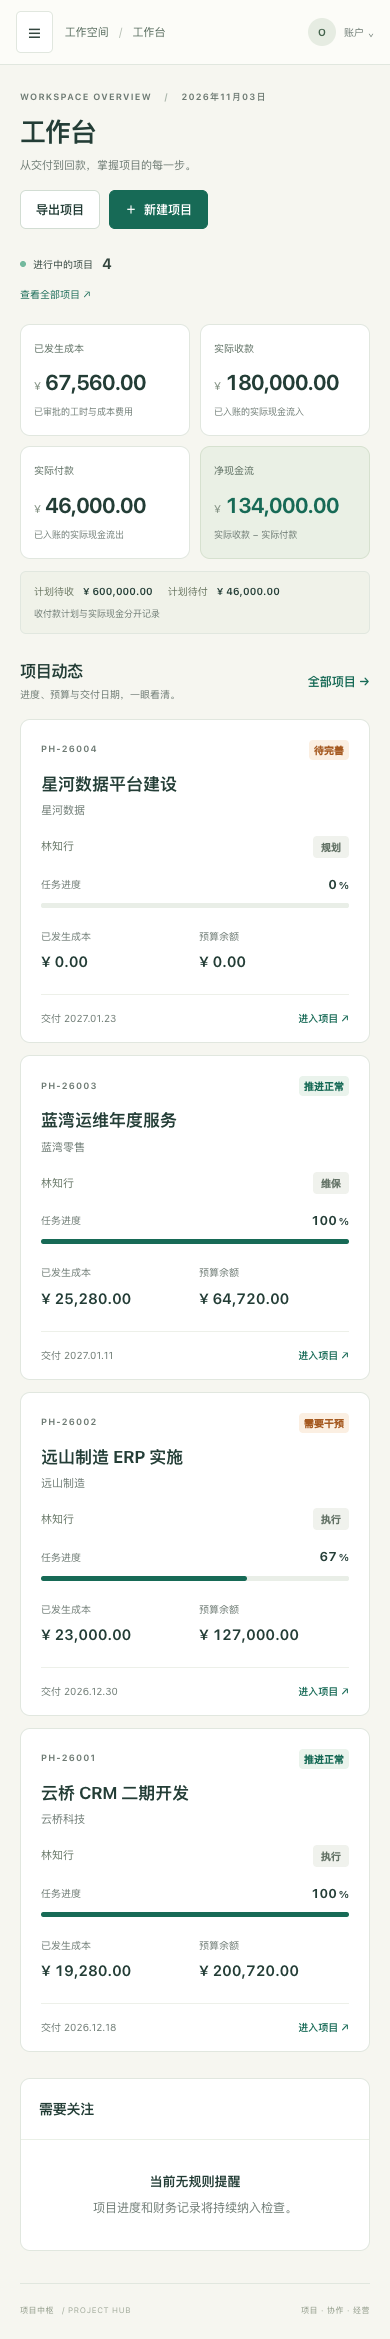
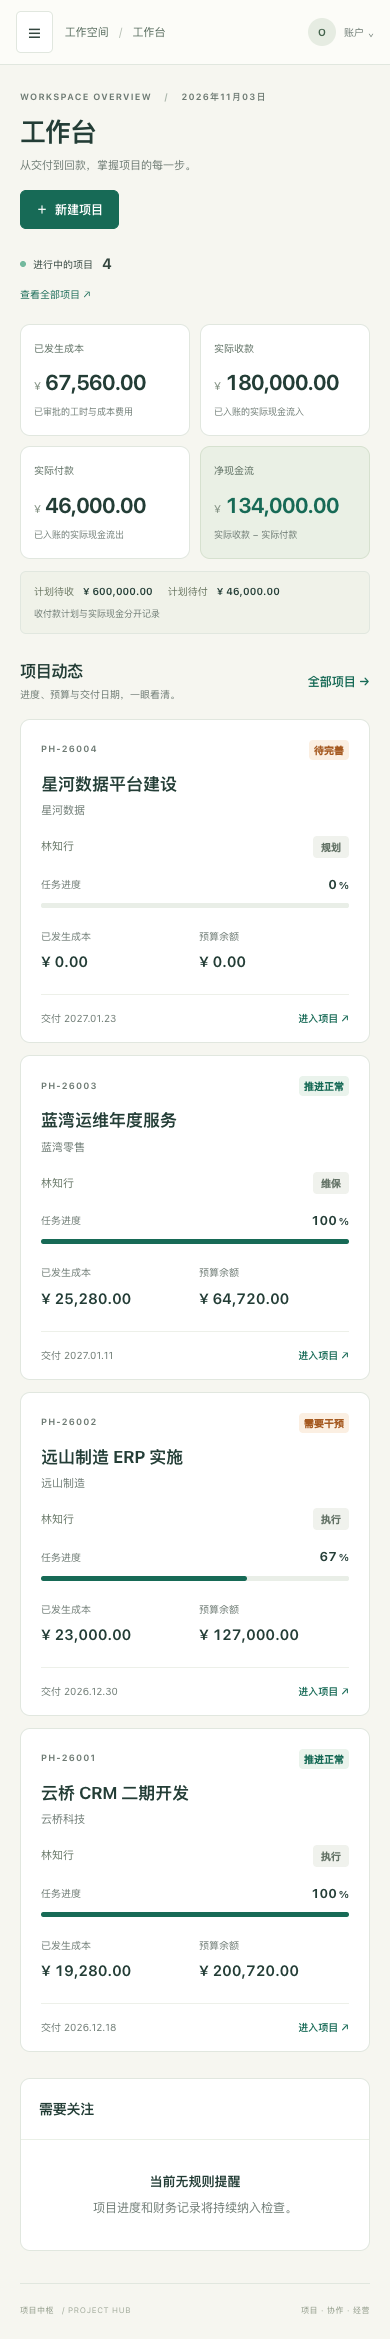
fix(Q-32): 补全停用写/导出/导入门控并附 Before/After 视觉证据

Changed region(s): [[0.3077, 0.0624, 0.5538, 0.1248], [0.0308, 0.0624, 0.2769, 0.1248]]

diff --git a/templates/settings.html b/templates/settings.html
@@ -1,4 +1,4 @@
 {% extends 'base.html' %}{% load money %}{% block title %}组织设置{% endblock %}{% block breadcrumb %}组织设置{% endblock %}{% block content %}<section class="page-heading"><div><div class="eyebrow">ORGANIZATION & PEOPLE</div><h1>组织设置</h1><p>维护组织、人员与成本核算规则。</p></div>{% if organization.is_demo %}<span class="badge warning">当前为演示组织</span>{% endif %}</section><div class="settings-overview"><section class="panel"><div class="panel-heading"><h2>组织信息</h2></div><div class="panel-body"><dl class="detail-grid"><div><dt>组织名称</dt><dd>{{ organization.name }}</dd></div><div><dt>记账币种</dt><dd>{{ organization.currency }} · 人民币</dd></div><div><dt>锁账截止日</dt><dd>{{ organization.locked_through|date:'Y.m.d'|default:'尚未设置' }}</dd></div><div><dt>当前角色</dt><dd>{{ membership.get_role_display }}</dd></div></dl>{% if is_owner and form %}<div class="section-gap"><h3>组织与锁账设置</h3><form method="post" class="stack-form">{% csrf_token %}{% include 'partials/form_fields.html' %}<button class="button primary" type="submit">保存设置</button></form></div>{% endif %}</div></section><section class="panel"><div class="panel-heading"><h2>工作空间规则</h2></div><div class="panel-body"><ol class="rule-list"><li><strong>成本与现金分账</strong><p>工时与费用计入成本，实际收付款计入现金。</p></li><li><strong>提交与审批分离</strong><p>记录由其他有权限的成员审批，处理过程留痕。</p></li><li><strong>锁账与冲销</strong><p>已入账记录通过冲销纠正；锁账日期约束历史变更。</p></li></ol><div class="notice">工作空间采用自托管部署。备份、存储与模型服务由部署配置管理。</div></div></section></div>
 <nav class="section-nav" aria-label="组织资料"><a href="#employees">员工</a>{% if is_manager %}<a href="#rates">成本费率</a><a href="#memberships">账户与权限</a>{% endif %}{% if is_owner %}<a href="{% url 'audit' %}">审计日志（只读）</a>{% endif %}</nav><section id="employees" class="panel anchor-section"><div class="panel-heading"><h2>员工档案</h2>{% if is_owner or is_finance %}<a class="button" href="{% url 'new-object' 'employee' %}">＋ 新增员工</a>{% endif %}</div><div class="table-scroll"><table><thead><tr><th>姓名</th><th>岗位</th><th>关联账户</th><th class="numeric">日可用工时</th><th>状态</th></tr></thead><tbody>{% for employee in employees %}<tr><th scope="row">{{ employee.name }}</th><td>{{ employee.title|default:'—' }}</td><td>{{ employee.member|default:'未关联' }}</td><td class="numeric">{{ employee.capacity_minutes|hours }} h</td><td><span class="badge {% if employee.active %}success{% else %}neutral{% endif %}">{% if employee.active %}在用{% else %}停用{% endif %}</span></td></tr>{% empty %}<tr><td colspan="5" class="table-empty">暂无员工档案。</td></tr>{% endfor %}</tbody></table></div></section>
 {% if is_manager %}<section id="rates" class="panel anchor-section"><div class="panel-heading"><div><h2>成本费率</h2><p>按员工与生效日期匹配工时成本</p></div>{% if is_finance %}<a class="button" href="{% url 'new-object' 'rate' %}">＋ 新增费率</a>{% endif %}</div><div class="table-scroll"><table><thead><tr><th>员工</th><th>生效日期</th><th class="numeric">小时综合成本</th><th>计算依据</th></tr></thead><tbody>{% for rate in rates %}<tr><th scope="row">{{ rate.employee.name }}</th><td>{{ rate.effective_from|date:'Y.m.d' }}</td><td class="numeric">¥ {{ rate.hourly_cents|money }} / h</td><td class="wrap-cell">{{ rate.basis }}</td></tr>{% empty %}<tr><td colspan="4" class="table-empty">暂无成本费率。</td></tr>{% endfor %}</tbody></table></div></section>
-<section id="memberships" class="panel anchor-section"><div class="panel-heading"><h2>账户与权限</h2>{% if is_owner %}<a class="button" href="{% url 'new-object' 'member' %}">＋ 新增账户</a>{% endif %}</div><div class="table-scroll"><table><thead><tr><th>姓名</th><th>用户名</th><th>角色</th><th>状态</th><th>项目范围</th><th>版本</th></tr></thead><tbody>{% for item in memberships %}<tr><th scope="row">{{ item.display }}</th><td>{{ item.username }}</td><td>{{ item.role_display }}</td><td><span class="badge {% if item.active %}success{% else %}neutral{% endif %}">{% if item.active %}在用{% else %}停用{% endif %}</span></td><td>{% if item.project_scope %}{% for scope in item.project_scope %}{{ scope.label }}{% if not forloop.last %}、{% endif %}{% endfor %}{% else %}—{% endif %}</td><td class="numeric">v{{ item.version }}</td></tr>{% empty %}<tr><td colspan="6" class="table-empty">暂无账户。</td></tr>{% endfor %}</tbody></table></div>{% if is_owner and membership_form %}<div class="section-gap"><h3>成员账号生命周期</h3><p class="help-text">变更角色、项目范围、停用/恢复成员。停用前请先停用/解绑其员工档案并改派其负责的项目；停用会立即撤销其个人 Agent 令牌并清空项目范围。每次变更写入审计并递增版本。</p>{% if membership_form.non_field_errors %}<div class="message error" role="alert">{{ membership_form.non_field_errors }}</div>{% endif %}<form method="post" class="stack-form">{% csrf_token %}{% include 'partials/form_fields.html' with form=membership_form %}<button class="button primary" type="submit">保存成员变更</button></form></div>{% endif %}</section>{% endif %}{% if is_owner %}<section id="audit" class="panel anchor-section"><div class="panel-heading"><div><h2>审计日志</h2><p>追加式只读操作记录；停用的专业能力历史仍可审计</p></div><a class="button" href="{% url 'audit' %}">打开审计日志</a></div><div class="panel-body"><p class="muted">审计记录只追加，不随入口停用而删除。复杂财务页与插件页已从小微版入口停用，历史账与审计仍可按权限只读查询。</p></div></section>{% endif %}{% endblock %}
+<section id="memberships" class="panel anchor-section"><div class="panel-heading"><h2>账户与权限</h2>{% if is_owner %}<a class="button" href="{% url 'new-object' 'member' %}">＋ 新增账户</a>{% endif %}</div><div class="table-scroll"><table><thead><tr><th>姓名</th><th>用户名</th><th>角色</th><th>状态</th><th>项目范围</th><th>版本</th></tr></thead><tbody>{% for item in memberships %}<tr><th scope="row">{{ item.display }}</th><td>{{ item.username }}</td><td>{{ item.role_display }}</td><td><span class="badge {% if item.active %}success{% else %}neutral{% endif %}">{% if item.active %}在用{% else %}停用{% endif %}</span></td><td>{% if item.project_scope %}{% for scope in item.project_scope %}{{ scope.label }}{% if not forloop.last %}、{% endif %}{% endfor %}{% else %}—{% endif %}</td><td class="numeric">v{{ item.version }}</td></tr>{% empty %}<tr><td colspan="6" class="table-empty">暂无账户。</td></tr>{% endfor %}</tbody></table></div>{% if is_owner and membership_form %}<div class="section-gap"><h3>成员账号生命周期</h3><p class="help-text">变更角色、项目范围、停用/恢复成员。停用前请先停用/解绑其员工档案并改派其负责的项目；停用会立即撤销其个人 Agent 令牌并清空项目范围。每次变更写入审计并递增版本。</p>{% if membership_form.non_field_errors %}<div class="message error" role="alert">{{ membership_form.non_field_errors }}</div>{% endif %}<form method="post" class="stack-form">{% csrf_token %}{% include 'partials/form_fields.html' with form=membership_form %}<button class="button primary" type="submit">保存成员变更</button></form></div>{% endif %}</section>{% endif %}{% if is_owner %}<section id="audit" class="panel anchor-section"><div class="panel-heading"><div><h2>审计日志</h2><p>追加式只读操作记录；{% if micro_scope %}停用的专业能力历史仍可审计{% else %}专业能力与业务操作均留痕{% endif %}</p></div><a class="button" href="{% url 'audit' %}">打开审计日志</a></div><div class="panel-body"><p class="muted">审计记录只追加，不随入口停用而删除。{% if micro_scope %}复杂财务页与插件页已从小微版入口停用，历史账与审计仍可按权限只读查询。{% else %}当前为专业能力全开范围，复杂财务与插件入口可用。{% endif %}</p></div></section>{% endif %}{% endblock %}

diff --git a/templates/time.html b/templates/time.html
@@ -1,1 +1,1 @@
-{% extends 'base.html' %}{% load money %}{% block title %}工时记录{% endblock %}{% block breadcrumb %}工时记录{% endblock %}{% block content %}<section class="page-heading"><div><div class="eyebrow">TIME & EFFORT</div><h1>工时记录</h1><p>记录真实投入，把工作连接到项目。</p></div><div class="actions">{% if is_manager or is_viewer %}<a class="button" href="{% url 'export-data' 'time' %}">导出工时</a>{% endif %}{% if not is_viewer %}<a class="button" href="{% url 'import-data' 'time' %}">CSV 导入</a><a class="button primary" href="{% url 'new-object' 'time' %}">＋ 填报工时</a>{% endif %}</div></section><div class="summary-band"><div><span>已批准投入</span><strong>{{ total_minutes|hours }} <small>小时</small></strong></div>{% if is_manager %}<div><span>旧口径逐行成本</span><strong><small>¥</small> {{ total_cost_cents|money }}</strong></div>{% endif %}<p>以上合计仅包含已批准投入；退回与冲销记录保留可查。</p></div><section class="panel"><div class="panel-heading"><h2>工时明细</h2><span class="muted">最近 {{ timesheets|length }} 条 · 最多 300 条</span></div><div class="record-list">{% for item in timesheets %}<details class="record"><summary><div><span class="eyebrow">{{ item.work_date|date:'Y.m.d' }} / {% if item.project_id %}{{ item.project.code }}{% else %}公司非项目{% endif %}</span><h3>{{ item.employee.name }} <span class="muted">·</span> {% if item.project_id %}{{ item.project.name }}{% else %}{{ item.non_project_destination.name }}{% endif %}</h3><p class="truncate">{{ item.note }}</p></div><div class="record-summary"><strong class="numeric">{{ item.minutes|hours }} <small>h</small></strong>{% if is_finance %}{% if item.accounting_mode == "monthly_pool" %}<span>成本见月池</span>{% else %}<strong class="numeric">¥ {{ item.cost_cents|money }}</strong>{% endif %}{% endif %}<span class="badge status-{{ item.status }}">{{ item.get_status_display }}</span><span class="disclosure" aria-hidden="true">⌄</span></div></summary><div class="record-body"><dl class="detail-grid"><div><dt>工作说明</dt><dd class="pre-line">{{ item.note }}</dd></div>{% if item.task %}<div><dt>关联任务</dt><dd>{{ item.task.name }}</dd></div>{% endif %}<div><dt>提交人 / 时间</dt><dd>{{ item.submitted_by.get_full_name|default:item.submitted_by.username }} · {{ item.created_at|date:'Y.m.d H:i' }}</dd></div>{% if is_finance %}<div><dt>小时费率 / 依据</dt><dd>{% if item.accounting_mode == "monthly_pool" %}{{ item.rate_basis }}（无逐行费率）{% else %}¥ {{ item.hourly_rate_cents|money }} / h · {{ item.rate_basis }}{% endif %}</dd></div>{% endif %}{% if item.review_note %}<div><dt>审批意见</dt><dd>{{ item.review_note }}</dd></div>{% endif %}</dl>{% if is_finance and item.status == 'approved' %}<form method="post" action="{% url 'reverse' 'time' item.pk %}" class="inline-form reversal-form">{% csrf_token %}<div class="grow"><label for="reverse-time-{{ item.pk }}">冲销原因</label><input id="reverse-time-{{ item.pk }}" name="note" required minlength="4" maxlength="300" placeholder="填写工时冲销的业务原因"></div><button class="button danger" type="submit">冲销工时</button></form>{% endif %}</div></details>{% empty %}<div class="empty-state"><span class="empty-glyph" aria-hidden="true">◷</span><h3>还没有工时记录</h3><p>从一次真实的工作投入开始记录。</p>{% if not is_viewer %}<a class="button primary" href="{% url 'new-object' 'time' %}">填报工时</a>{% endif %}</div>{% endfor %}</div></section><p class="help-text section-gap">{% if is_manager or is_viewer %}完整工时记录可通过页面上方导出。{% endif %}</p>{% endblock %}
+{% extends 'base.html' %}{% load money %}{% block title %}工时记录{% endblock %}{% block breadcrumb %}工时记录{% endblock %}{% block content %}<section class="page-heading"><div><div class="eyebrow">TIME & EFFORT</div><h1>工时记录</h1><p>记录真实投入，把工作连接到项目。</p></div><div class="actions">{% if not micro_scope %}{% if is_manager or is_viewer %}<a class="button" href="{% url 'export-data' 'time' %}">导出工时</a>{% endif %}{% endif %}{% if not is_viewer %}<a class="button" href="{% url 'import-data' 'time' %}">CSV 导入</a><a class="button primary" href="{% url 'new-object' 'time' %}">＋ 填报工时</a>{% endif %}</div></section><div class="summary-band"><div><span>已批准投入</span><strong>{{ total_minutes|hours }} <small>小时</small></strong></div>{% if is_manager %}<div><span>旧口径逐行成本</span><strong><small>¥</small> {{ total_cost_cents|money }}</strong></div>{% endif %}<p>以上合计仅包含已批准投入；退回与冲销记录保留可查。</p></div><section class="panel"><div class="panel-heading"><h2>工时明细</h2><span class="muted">最近 {{ timesheets|length }} 条 · 最多 300 条</span></div><div class="record-list">{% for item in timesheets %}<details class="record"><summary><div><span class="eyebrow">{{ item.work_date|date:'Y.m.d' }} / {% if item.project_id %}{{ item.project.code }}{% else %}公司非项目{% endif %}</span><h3>{{ item.employee.name }} <span class="muted">·</span> {% if item.project_id %}{{ item.project.name }}{% else %}{{ item.non_project_destination.name }}{% endif %}</h3><p class="truncate">{{ item.note }}</p></div><div class="record-summary"><strong class="numeric">{{ item.minutes|hours }} <small>h</small></strong>{% if is_finance %}{% if item.accounting_mode == "monthly_pool" %}<span>成本见月池</span>{% else %}<strong class="numeric">¥ {{ item.cost_cents|money }}</strong>{% endif %}{% endif %}<span class="badge status-{{ item.status }}">{{ item.get_status_display }}</span><span class="disclosure" aria-hidden="true">⌄</span></div></summary><div class="record-body"><dl class="detail-grid"><div><dt>工作说明</dt><dd class="pre-line">{{ item.note }}</dd></div>{% if item.task %}<div><dt>关联任务</dt><dd>{{ item.task.name }}</dd></div>{% endif %}<div><dt>提交人 / 时间</dt><dd>{{ item.submitted_by.get_full_name|default:item.submitted_by.username }} · {{ item.created_at|date:'Y.m.d H:i' }}</dd></div>{% if is_finance %}<div><dt>小时费率 / 依据</dt><dd>{% if item.accounting_mode == "monthly_pool" %}{{ item.rate_basis }}（无逐行费率）{% else %}¥ {{ item.hourly_rate_cents|money }} / h · {{ item.rate_basis }}{% endif %}</dd></div>{% endif %}{% if item.review_note %}<div><dt>审批意见</dt><dd>{{ item.review_note }}</dd></div>{% endif %}</dl>{% if not micro_scope %}{% if is_finance and item.status == 'approved' %}<form method="post" action="{% url 'reverse' 'time' item.pk %}" class="inline-form reversal-form">{% csrf_token %}<div class="grow"><label for="reverse-time-{{ item.pk }}">冲销原因</label><input id="reverse-time-{{ item.pk }}" name="note" required minlength="4" maxlength="300" placeholder="填写工时冲销的业务原因"></div><button class="button danger" type="submit">冲销工时</button></form>{% endif %}{% endif %}</div></details>{% empty %}<div class="empty-state"><span class="empty-glyph" aria-hidden="true">◷</span><h3>还没有工时记录</h3><p>从一次真实的工作投入开始记录。</p>{% if not is_viewer %}<a class="button primary" href="{% url 'new-object' 'time' %}">填报工时</a>{% endif %}</div>{% endfor %}</div></section><p class="help-text section-gap">{% if is_manager or is_viewer %}完整工时记录可通过页面上方导出。{% endif %}</p>{% endblock %}

diff --git a/templates/partials/documents.html b/templates/partials/documents.html
@@ -1,1 +1,1 @@
-{% load money %}<div class="record-list">{% for document in documents %}<details class="record"><summary><div><span class="eyebrow">{{ document.get_kind_display }} · {{ document.project.code }}</span><h3>{{ document.title }}</h3><p>{{ document.occurred_on|date:'Y.m.d' }} · {{ document.submitted_by.get_full_name|default:document.submitted_by.username }}{% if document.counterparty %} · {{ document.counterparty }}{% endif %}</p></div><div class="record-summary"><strong class="numeric">¥ {{ document.amount_cents|money }}</strong><span class="badge status-{{ document.status }}">{{ document.get_status_display }}</span><span class="disclosure" aria-hidden="true">⌄</span></div></summary><div class="record-body"><dl class="detail-grid"><div><dt>所属项目</dt><dd><a href="{% url 'project-detail' document.project.pk %}">{{ document.project.name }}</a></dd></div><div><dt>凭证 / 依据</dt><dd>{{ document.reference|default:'未填写' }}</dd></div><div><dt>税额</dt><dd>¥ {{ document.tax_cents|money }}{% if document.recoverable_tax %} · 可抵扣{% endif %}</dd></div>{% if document.review_note %}<div><dt>审批意见</dt><dd>{{ document.review_note }}</dd></div>{% endif %}</dl>{% if document.note %}<p class="pre-line">{{ document.note }}</p>{% endif %}<div class="attachment-list"><h4>凭证附件</h4>{% for evidence in document.evidence_files.all %}<a href="{% url 'download-evidence' evidence.pk %}">{{ evidence.original_name }} <span>下载 ↗</span></a>{% empty %}<p class="muted">暂无附件</p>{% endfor %}</div>{% if not is_viewer %}{% if is_finance or can_finance or document.submitted_by_id == request.user.pk %}<form class="inline-form attachment-form" method="post" enctype="multipart/form-data" action="{% url 'upload-evidence' document.pk %}">{% csrf_token %}<div class="grow"><label for="evidence-{{ document.pk }}">添加附件</label><input type="file" name="file" id="evidence-{{ document.pk }}" accept=".pdf,.png,.jpg,.jpeg,.csv,.txt,.xlsx,.docx" aria-describedby="evidence-help-{{ document.pk }}" required><p class="help-text" id="evidence-help-{{ document.pk }}">10MB 以内，支持 PDF、图片、文本及 Office 凭证。</p></div><button class="button" type="submit">上传凭证</button></form>{% endif %}{% if is_finance and document.status == 'approved' and document.kind == 'expense' or is_finance and document.status == 'approved' and document.kind == 'receipt' or is_finance and document.status == 'approved' and document.kind == 'payment' %}<form class="inline-form reversal-form" method="post" action="{% url 'reverse' 'document' document.pk %}">{% csrf_token %}<div class="grow"><label for="reverse-doc-{{ document.pk }}">冲销原因</label><input id="reverse-doc-{{ document.pk }}" name="note" maxlength="300" minlength="4" required placeholder="说明本次冲销的业务原因"></div><button class="button danger" type="submit">冲销单据</button></form>{% endif %}{% endif %}</div></details>{% empty %}<div class="empty-state compact"><h3>暂无业务单据</h3><p>费用、收付款、预算与验收单据将在这里留存。</p></div>{% endfor %}</div>
+{% load money %}<div class="record-list">{% for document in documents %}<details class="record"><summary><div><span class="eyebrow">{{ document.get_kind_display }} · {{ document.project.code }}</span><h3>{{ document.title }}</h3><p>{{ document.occurred_on|date:'Y.m.d' }} · {{ document.submitted_by.get_full_name|default:document.submitted_by.username }}{% if document.counterparty %} · {{ document.counterparty }}{% endif %}</p></div><div class="record-summary"><strong class="numeric">¥ {{ document.amount_cents|money }}</strong><span class="badge status-{{ document.status }}">{{ document.get_status_display }}</span><span class="disclosure" aria-hidden="true">⌄</span></div></summary><div class="record-body"><dl class="detail-grid"><div><dt>所属项目</dt><dd><a href="{% url 'project-detail' document.project.pk %}">{{ document.project.name }}</a></dd></div><div><dt>凭证 / 依据</dt><dd>{{ document.reference|default:'未填写' }}</dd></div><div><dt>税额</dt><dd>¥ {{ document.tax_cents|money }}{% if document.recoverable_tax %} · 可抵扣{% endif %}</dd></div>{% if document.review_note %}<div><dt>审批意见</dt><dd>{{ document.review_note }}</dd></div>{% endif %}</dl>{% if document.note %}<p class="pre-line">{{ document.note }}</p>{% endif %}<div class="attachment-list"><h4>凭证附件</h4>{% for evidence in document.evidence_files.all %}<a href="{% url 'download-evidence' evidence.pk %}">{{ evidence.original_name }} <span>下载 ↗</span></a>{% empty %}<p class="muted">暂无附件</p>{% endfor %}</div>{% if not is_viewer %}{% if is_finance or can_finance or document.submitted_by_id == request.user.pk %}<form class="inline-form attachment-form" method="post" enctype="multipart/form-data" action="{% url 'upload-evidence' document.pk %}">{% csrf_token %}<div class="grow"><label for="evidence-{{ document.pk }}">添加附件</label><input type="file" name="file" id="evidence-{{ document.pk }}" accept=".pdf,.png,.jpg,.jpeg,.csv,.txt,.xlsx,.docx" aria-describedby="evidence-help-{{ document.pk }}" required><p class="help-text" id="evidence-help-{{ document.pk }}">10MB 以内，支持 PDF、图片、文本及 Office 凭证。</p></div><button class="button" type="submit">上传凭证</button></form>{% endif %}{% if not micro_scope %}{% if is_finance and document.status == 'approved' and document.kind == 'expense' or is_finance and document.status == 'approved' and document.kind == 'receipt' or is_finance and document.status == 'approved' and document.kind == 'payment' %}<form class="inline-form reversal-form" method="post" action="{% url 'reverse' 'document' document.pk %}">{% csrf_token %}<div class="grow"><label for="reverse-doc-{{ document.pk }}">冲销原因</label><input id="reverse-doc-{{ document.pk }}" name="note" maxlength="300" minlength="4" required placeholder="说明本次冲销的业务原因"></div><button class="button danger" type="submit">冲销单据</button></form>{% endif %}{% endif %}{% endif %}</div></details>{% empty %}<div class="empty-state compact"><h3>暂无业务单据</h3><p>费用、收付款、预算与验收单据将在这里留存。</p></div>{% endfor %}</div>

diff --git a/templates/import.html b/templates/import.html
@@ -1,1 +1,1 @@
-{% extends 'base.html' %}{% load money %}{% block title %}{{ heading }}{% endblock %}{% block breadcrumb %}数据导入{% endblock %}{% block content %}<section class="page-heading"><div><div class="eyebrow">DATA IMPORT / {{ kind }}</div><h1>{{ heading }}</h1><p>先核对预览，再确认导入。相同源编号重复提交保持幂等。</p></div></section><div class="section-nav" aria-label="导入步骤"><span class="button subtle">01 上传 CSV</span><span class="button subtle">02 核对预览</span><span class="button subtle">03 确认导入</span></div>{% if preview_count %}<section class="panel"><div class="panel-heading"><h2>核对导入数据</h2><span class="badge warning">尚未导入</span></div><div class="preview-summary">共 {{ preview_count }} 行数据，以下显示前 20 行。确认后提交当前预览批次。</div><div class="table-scroll"><table><caption class="sr-only">CSV 导入数据预览</caption><thead><tr><th>行</th>{% for header in headers %}<th>{{ header }}</th>{% endfor %}</tr></thead><tbody>{% for row in preview_rows|slice:':20' %}<tr><th scope="row">{{ forloop.counter }}</th>{% for header in headers %}<td class="wrap-cell">{{ row|get_item:header }}</td>{% endfor %}</tr>{% endfor %}</tbody></table></div><div class="import-actions"><form method="post">{% csrf_token %}<input type="hidden" name="action" value="commit"><div class="actions"><button type="submit" class="button primary">确认导入 {{ preview_count }} 行</button><a class="button" href="{% url 'import-data' kind %}">重新上传</a></div></form></div></section>{% else %}<section class="panel form-panel"><form method="post" enctype="multipart/form-data" class="stack-form">{% csrf_token %}<input type="hidden" name="action" value="preview">{% include 'partials/form_fields.html' %}<div class="form-actions">{% if kind == 'time' %}<a class="button" href="{% url 'timesheets' %}">取消返回</a>{% else %}<a class="button" href="{% url 'finance' %}">取消返回</a>{% endif %}<button class="button primary" type="submit">上传并预览</button></div></form></section>{% if headers %}<section class="panel section-gap import-help"><div class="panel-body"><h3>CSV 字段</h3><div class="schema-columns">{% for header in headers %}<code>{{ header }}</code>{% endfor %}</div><p class="help-text">请保留源编号，用于识别已经导入的记录。</p></div></section>{% endif %}{% endif %}{% endblock %}
+{% extends 'base.html' %}{% load money %}{% block title %}{{ heading }}{% endblock %}{% block breadcrumb %}数据导入{% endblock %}{% block content %}<section class="page-heading"><div><div class="eyebrow">DATA IMPORT / {{ kind }}</div><h1>{{ heading }}</h1><p>先核对预览，再确认导入。相同源编号重复提交保持幂等。</p></div></section><div class="section-nav" aria-label="导入步骤"><span class="button subtle">01 上传 CSV</span><span class="button subtle">02 核对预览</span><span class="button subtle">03 确认导入</span></div>{% if preview_count %}<section class="panel"><div class="panel-heading"><h2>核对导入数据</h2><span class="badge warning">尚未导入</span></div><div class="preview-summary">共 {{ preview_count }} 行数据，以下显示前 20 行。确认后提交当前预览批次。</div><div class="table-scroll"><table><caption class="sr-only">CSV 导入数据预览</caption><thead><tr><th>行</th>{% for header in headers %}<th>{{ header }}</th>{% endfor %}</tr></thead><tbody>{% for row in preview_rows|slice:':20' %}<tr><th scope="row">{{ forloop.counter }}</th>{% for header in headers %}<td class="wrap-cell">{{ row|get_item:header }}</td>{% endfor %}</tr>{% endfor %}</tbody></table></div><div class="import-actions"><form method="post">{% csrf_token %}<input type="hidden" name="action" value="commit"><div class="actions"><button type="submit" class="button primary">确认导入 {{ preview_count }} 行</button><a class="button" href="{% url 'import-data' kind %}">重新上传</a></div></form></div></section>{% else %}<section class="panel form-panel"><form method="post" enctype="multipart/form-data" class="stack-form">{% csrf_token %}<input type="hidden" name="action" value="preview">{% include 'partials/form_fields.html' %}<div class="form-actions">{% if kind == 'time' %}<a class="button" href="{% url 'timesheets' %}">取消返回</a>{% else %}<a class="button" href="{% url 'projects' %}">取消返回</a>{% endif %}<button class="button primary" type="submit">上传并预览</button></div></form></section>{% if headers %}<section class="panel section-gap import-help"><div class="panel-body"><h3>CSV 字段</h3><div class="schema-columns">{% for header in headers %}<code>{{ header }}</code>{% endfor %}</div><p class="help-text">请保留源编号，用于识别已经导入的记录。</p></div></section>{% endif %}{% endif %}{% endblock %}

diff --git a/templates/dashboard.html b/templates/dashboard.html
@@ -1,4 +1,4 @@
-{% extends 'base.html' %}{% load money %}{% block title %}{% if micro_scope %}工作台{% else %}经营总览{% endif %}{% endblock %}{% block breadcrumb %}{% if micro_scope %}工作台{% else %}经营总览{% endif %}{% endblock %}{% block content %}<section class="page-heading"><div><div class="eyebrow">WORKSPACE OVERVIEW <span class="heading-dot">/</span> {{ today|date:'Y年m月d日' }}</div><h1>{% if micro_scope %}工作台{% else %}经营总览{% endif %}</h1><p>从交付到回款，掌握项目的每一步。</p></div><div class="actions">{% if is_manager %}<a class="button" href="{% url 'export-data' 'projects' %}">导出项目</a>{% if is_owner or membership.role == 'pm' %}<a class="button primary" href="{% url 'new-object' 'project' %}"><span aria-hidden="true">＋</span> 新建项目</a>{% endif %}{% elif not is_viewer %}<a class="button primary" href="{% url 'new-object' 'time' %}">填报工时</a>{% endif %}</div></section>
+{% extends 'base.html' %}{% load money %}{% block title %}{% if micro_scope %}工作台{% else %}经营总览{% endif %}{% endblock %}{% block breadcrumb %}{% if micro_scope %}工作台{% else %}经营总览{% endif %}{% endblock %}{% block content %}<section class="page-heading"><div><div class="eyebrow">WORKSPACE OVERVIEW <span class="heading-dot">/</span> {{ today|date:'Y年m月d日' }}</div><h1>{% if micro_scope %}工作台{% else %}经营总览{% endif %}</h1><p>从交付到回款，掌握项目的每一步。</p></div><div class="actions">{% if is_manager and not micro_scope %}<a class="button" href="{% url 'export-data' 'projects' %}">导出项目</a>{% endif %}{% if is_owner or membership.role == 'pm' %}<a class="button primary" href="{% url 'new-object' 'project' %}"><span aria-hidden="true">＋</span> 新建项目</a>{% elif not is_viewer %}<a class="button primary" href="{% url 'new-object' 'time' %}">填报工时</a>{% endif %}</div></section>
 <div class="overview-strip"><span><span class="status-dot"></span>进行中的项目 <strong>{{ metrics.active_projects|default:0 }}</strong></span>{% if is_manager and not micro_scope %}<a href="{% url 'approvals' %}">待审批 <strong>{{ pending_count|default:0 }}</strong> <span aria-hidden="true">→</span></a>{% endif %}<a href="{% url 'projects' %}">查看全部项目 <span aria-hidden="true">↗</span></a></div>
 {% if is_manager or is_viewer %}{% include 'partials/financial_metrics.html' %}{% endif %}<div class="section-heading"><div><h2>项目动态</h2><p>进度、预算与交付日期，一眼看清。</p></div><a class="text-link" href="{% url 'projects' %}">全部项目 →</a></div>{% include 'partials/project_cards.html' %}
 <div class="dashboard-bottom"><section class="panel"><div class="panel-heading"><h2>需要关注</h2>{% if not micro_scope %}<a href="{% url 'assistant' %}" class="text-link">规则检查 →</a>{% endif %}</div>{% include 'partials/alerts.html' %}</section>{% if not micro_scope %}{% if is_manager or is_viewer %}<section class="panel"><div class="panel-heading"><div><h2>未来 13 周现金预测</h2><p>依据收付款计划 · 人民币 / 元</p></div><a href="{% url 'finance' %}" class="text-link">财务明细 →</a></div>{% include 'partials/cashflow.html' %}</section>{% endif %}{% endif %}</div>{% endblock %}

diff --git a/templates/projects.html b/templates/projects.html
@@ -1,1 +1,1 @@
-{% extends 'base.html' %}{% block title %}项目空间{% endblock %}{% block breadcrumb %}项目空间{% endblock %}{% block content %}<section class="page-heading"><div><div class="eyebrow">PROJECT PORTFOLIO</div><h1>项目空间</h1><p>把目标、团队和经营结果放在一起。</p></div><div class="actions">{% if is_manager %}<a class="button" href="{% url 'export-data' 'projects' %}">导出项目</a>{% if is_owner or membership.role == 'pm' %}<a class="button primary" href="{% url 'new-object' 'project' %}">＋ 新建项目</a>{% endif %}{% endif %}</div></section><form class="filter-bar" method="get"><div class="search-field"><label class="sr-only" for="project-search">搜索项目</label><input id="project-search" type="search" name="q" value="{{ query }}" placeholder="搜索项目名称、编号或客户"></div><div><label class="sr-only" for="stage-filter">项目阶段</label><select id="stage-filter" name="stage"><option value="">全部阶段</option>{% for value,label in stages %}<option value="{{ value }}" {% if stage == value %}selected{% endif %}>{{ label }}</option>{% endfor %}</select></div><button type="submit" class="button primary">筛选</button>{% if query or stage %}<a class="button subtle" href="{% url 'projects' %}">重置</a>{% endif %}</form>{% include 'partials/project_cards.html' %}{% endblock %}
+{% extends 'base.html' %}{% block title %}项目空间{% endblock %}{% block breadcrumb %}项目空间{% endblock %}{% block content %}<section class="page-heading"><div><div class="eyebrow">PROJECT PORTFOLIO</div><h1>项目空间</h1><p>把目标、团队和经营结果放在一起。</p></div><div class="actions">{% if is_manager and not micro_scope %}<a class="button" href="{% url 'export-data' 'projects' %}">导出项目</a>{% endif %}{% if is_owner or membership.role == 'pm' %}<a class="button primary" href="{% url 'new-object' 'project' %}">＋ 新建项目</a>{% endif %}</div></section><form class="filter-bar" method="get"><div class="search-field"><label class="sr-only" for="project-search">搜索项目</label><input id="project-search" type="search" name="q" value="{{ query }}" placeholder="搜索项目名称、编号或客户"></div><div><label class="sr-only" for="stage-filter">项目阶段</label><select id="stage-filter" name="stage"><option value="">全部阶段</option>{% for value,label in stages %}<option value="{{ value }}" {% if stage == value %}selected{% endif %}>{{ label }}</option>{% endfor %}</select></div><button type="submit" class="button primary">筛选</button>{% if query or stage %}<a class="button subtle" href="{% url 'projects' %}">重置</a>{% endif %}</form>{% include 'partials/project_cards.html' %}{% endblock %}

diff --git a/tests/test_micro_scope.py b/tests/test_micro_scope.py
@@ -6,10 +6,11 @@ from django.contrib.auth import get_user_model
 from django.test import Client, TestCase, override_settings
 from django.urls import reverse
 
-from core.models import Document, Membership, Organization, PluginState, Project, ProjectMember
+from core.models import (Document, LedgerEntry, Membership, Organization, PluginState,
+                         Project, ProjectMember)
 from core.plugin_runtime import get_registry, is_enabled
-from core.scope import is_micro_scope
-from core.services import audit, submit_document
+from core.scope import is_micro_scope, resolve_scope
+from core.services import audit
 from pmo_plugins.delivery.models import Acceptance
 
 DISABLED_PAGE = "该功能不在小微版入口内"
@@ -62,6 +63,7 @@ class MicroScopeTests(TestCase):
                        "通知中心", "到期提醒", "验收与收入", "应收与账龄", "人工成本池"):
             self.assertNotContains(page, hidden)
         self.assertNotContains(page, 'href="/finance/"')
+        self.assertNotContains(page, reverse("export-data", args=["projects"]))
         self.assertContains(page, reverse("settings"))
 
     def test_navigation_is_role_scoped(self):
@@ -79,7 +81,10 @@ class MicroScopeTests(TestCase):
         self.login(self.owner)
         for path in ("/finance/", "/modules/delivery/acceptance-list/", "/assistant/",
                      "/approvals/", "/plugins/", "/reminders/", "/notifications/",
-                     "/connections/"):
+                     "/connections/", "/review/document/1/", "/reverse/document/1/",
+                     "/export/management-revenue/",
+                     "/export/time/", "/export/ledger/", "/export/plans/",
+                     "/import/invoicing/"):
             with self.subTest(path=path):
                 self.assert_disabled(self.client.get(path))
 
@@ -125,9 +130,90 @@ class MicroScopeTests(TestCase):
         self.assertEqual(self.client.get(
             reverse("project-detail", args=[self.project.pk])).status_code, 404)
 
+    def test_moved_out_approval_write_is_rejected_without_ledger_side_effects(self):
+        self.login(self.owner)
+        before = LedgerEntry.objects.count()
+        response = self.client.post(
+            f"/review/document/{self.document.pk}/",
+            {"decision": "approve", "note": "评审要求：微版停用审批写"})
+        self.assert_disabled(response)
+        self.assertEqual(LedgerEntry.objects.count(), before)
+
+    def test_moved_out_reversal_write_is_rejected(self):
+        self.login(self.owner)
+        before = LedgerEntry.objects.count()
+        response = self.client.post(
+            f"/reverse/document/{self.document.pk}/", {"note": "微版历史只读，不允许冲销"})
+        self.assert_disabled(response)
+        self.assertEqual(LedgerEntry.objects.count(), before)
+
+    def test_moved_out_export_endpoints_are_rejected(self):
+        self.login(self.owner)
+        for path in ("/export/management-revenue/", "/export/time/", "/export/ledger/",
+                     "/export/plans/", "/export/projects/"):
+            with self.subTest(path=path):
+                self.assert_disabled(self.client.get(path))
+
+    def test_moved_out_invoicing_import_is_gated_not_a_500(self):
+        self.login(self.owner)
+        response = self.client.get("/import/invoicing/")
+        self.assert_disabled(response)
+
+    def test_kept_imports_render_and_redirect_to_kept_entry(self):
+        self.login(self.owner)
+        page = self.client.get("/import/expense/")
+        self.assertEqual(page.status_code, 200)
+        self.assertNotContains(page, 'href="/finance/"')
+        rows = [{"source_id": "MICRO-IMP-1", "project_code": "MICRO-001", "title": "导入费用",
+                 "amount": "12.00", "tax": "0", "recoverable_tax": "0",
+                 "occurred_on": "2025-01-06", "counterparty": "", "reference": "MICRO-IMP-REF",
+                 "note": ""}]
+        session = self.client.session
+        session["import_expense"] = {"user_id": self.owner.user.pk, "rows": rows}
+        session.save()
+        response = self.client.post("/import/expense/", {"action": "commit"})
+        self.assertEqual(response.status_code, 302)
+        self.assertEqual(response.url, reverse("projects"))
+
+    def test_script_prefix_cannot_bypass_disabled_gate(self):
+        self.login(self.owner)
+        response = self.client.get("/finance/", SCRIPT_NAME="/sub")
+        self.assert_disabled(response)
+
+    def test_scope_configuration_fails_closed(self):
+        # 空值、大小写错误与拼写错误都不能打开专业版 UI。
+        self.assertEqual(resolve_scope(None, testing=False), "micro")
+        self.assertEqual(resolve_scope("", testing=False), "micro")
+        self.assertEqual(resolve_scope(" ", testing=False), "micro")
+        self.assertEqual(resolve_scope("Micro", testing=False), "micro")
+        self.assertEqual(resolve_scope("flull", testing=False), "micro")
+        self.assertEqual(resolve_scope("micro", testing=False), "micro")
+        self.assertEqual(resolve_scope("full", testing=False), "full")
+        # 测试进程显式跑保留专业能力回归；微版由本模块的 override 覆盖。
+        self.assertEqual(resolve_scope(None, testing=True), "full")
+
+    @override_settings(PMO_SCOPE="")
+    def test_empty_scope_setting_is_micro(self):
+        self.assertTrue(is_micro_scope())
+
+    @override_settings(PMO_SCOPE="flull")
+    def test_typo_scope_setting_is_micro(self):
+        self.assertTrue(is_micro_scope())
+
+    @override_settings(PMO_SCOPE="full")
+    def test_full_scope_restores_navigation_and_finance(self):
+        self.login(self.owner)
+        page = self.client.get(reverse("dashboard"))
+        self.assertContains(page, "项目财务")
+        self.assertNotContains(page, "该功能不在小微版入口内")
+        self.assertEqual(self.client.get("/finance/").status_code, 200)
+        settings_page = self.client.get(reverse("settings"))
+        self.assertNotContains(settings_page, "复杂财务页与插件页已从小微版入口停用")
+
     def test_settings_page_exposes_read_only_audit(self):
         self.login(self.owner)
         page = self.client.get(reverse("settings"))
         self.assertEqual(page.status_code, 200)
         self.assertContains(page, "审计日志（只读）")
         self.assertContains(page, reverse("audit"))
+        self.assertContains(page, "复杂财务页与插件页已从小微版入口停用")

diff --git a/core/views.py b/core/views.py
@@ -533,7 +533,7 @@ def import_data(request, kind):
                 objects = commit_rows(request.member, kind, cached["rows"])
                 del request.session[key]
                 messages.success(request, f"已处理{len(objects)}行，全部提交待审批；相同来源编号不会重复入账")
-                return redirect("timesheets" if kind == "time" else "finance")
+                return redirect("timesheets" if kind == "time" else "projects")
             except (ValidationError, IntegrityError) as error: messages.error(request, error_text(error))
     elif request.method == "POST" and form.is_valid():
         try:
@@ -544,7 +544,7 @@ def import_data(request, kind):
         except (ValidationError, IntegrityError) as error:
             request.session.pop(key, None)
             form.add_error(None, error_text(error))
-    return render(request, "import.html", {"nav": "time" if kind == "time" else "finance", "heading": {"time": "批量导入工时", "expense": "批量导入费用", "plan": "批量导入现金计划"}[kind],
+    return render(request, "import.html", {"nav": "time" if kind == "time" else "projects", "heading": {"time": "批量导入工时", "expense": "批量导入费用", "plan": "批量导入现金计划", "invoicing": "批量导入发票"}[kind],
         "kind": kind, "form": form, "headers": HEADERS[kind], "preview_rows": preview, "preview_count": count})
 
 

diff --git a/core/scope.py b/core/scope.py
@@ -8,8 +8,21 @@ from django.conf import settings
 from django.urls import reverse
 
 MICRO_SCOPE = "micro"
-
+VALID_PRODUCT_SCOPES = frozenset({"micro", "full"})
 MICRO_ENABLED_PLUGINS = frozenset()
+
+
+def resolve_scope(value, testing=False):
+    """Resolve PMO_SCOPE fail-closed: only exact ``micro``/``full`` are trusted.
+
+    Unset means the 1.0 micro default. Empty/typo values must never open the
+    professional UI, so anything else falls back to ``micro``. The test
+    command runs the retained professional regression suite in ``full`` unless
+    the caller sets an explicit valid value.
+    """
+    if value is None:
+        return "full" if testing else MICRO_SCOPE
+    return value if value in VALID_PRODUCT_SCOPES else MICRO_SCOPE
 
 # 1.0 保留入口（docs/product-scope.md §8.1）。客户与合同/费用/开票与收款/现金
 # 的页面由 Q-36/Q-37/Q-38 交付后加入白名单；未交付前不渲染死链。
@@ -34,6 +47,10 @@ MICRO_DISABLED_PREFIXES = (
     "/notifications/",
     "/plugins/",
     "/connections/",
+    "/review/",
+    "/reverse/",
+    "/export/",
+    "/import/invoicing/",
 )
 
 
@@ -42,7 +59,8 @@ def product_scope():
 
 
 def is_micro_scope():
-    return product_scope() == MICRO_SCOPE
+    # Fail closed: only the exact full scope opens the professional capability set.
+    return product_scope() != "full"
 
 
 def is_micro_disabled_path(path):

diff --git a/pmo/settings.py b/pmo/settings.py
@@ -3,6 +3,7 @@ import os
 import sys
 from pathlib import Path
 from django.core.exceptions import ImproperlyConfigured
+from core.scope import resolve_scope
 
 BASE_DIR = Path(__file__).resolve().parent.parent
 PRODUCTION = os.getenv("PMO_ENV", "development") == "production"
@@ -90,8 +91,8 @@ if PRODUCTION:
 # 1.0 产品范围开关：micro = 小微企业简化版入口（默认）；full = 专业能力全开。
 # 保留的专业能力回归套件按 full 范围运行；微版门控由 tests/test_micro_scope.py
 # 用 override_settings(PMO_SCOPE="micro") 覆盖验证，二者不互相冒充。
-_TEST_COMMAND = "test" in sys.argv[1:2]
-PMO_SCOPE = os.getenv("PMO_SCOPE", "full" if _TEST_COMMAND else "micro")
+# resolve_scope 对空值/拼写错误 fail-closed 回落到 micro。
+PMO_SCOPE = resolve_scope(os.getenv("PMO_SCOPE"), "test" in sys.argv[1:2])
 
 AI_ENABLED = os.getenv("PMO_AI_ENABLED", "0") == "1"
 AI_BASE_URL = os.getenv("PMO_AI_BASE_URL", "")

diff --git a/core/middleware.py b/core/middleware.py
@@ -16,7 +16,7 @@ class MicroScopeMiddleware:
 
     def __call__(self, request):
         if (is_micro_scope() and request.user.is_authenticated
-                and is_micro_disabled_path(request.path)):
+                and is_micro_disabled_path(request.path_info)):
             member = current_membership(request)
             if member is not None:
                 return render(request, "scope_disabled.html", {
